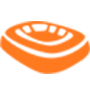
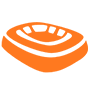
底部icon替换

Changed region(s): [[0.0, 0.2222, 1.0, 0.8222], [0.5333, 0.5111, 0.5778, 0.5333]]

diff --git a/pages/index/index.js b/pages/index/index.js
@@ -23,6 +23,7 @@ Page({
     userInfo: wx.getStorageSync('userInfo'),
     flag: true,
     imageUrl: img_url,
+    // 体育头条的轮播设置
     indicatorPorts: false,
     autoplayPorts: true,
     verticalPorts: true,
@@ -33,6 +34,7 @@ Page({
     nextMarginPorts: 0,
     indicatorColorPorts: 'rgba(255, 255, 255, .5)',
     swiper_height: '269rpx',
+    // 体育头条的数据
     sportArr: [
       {
         title: '体育新闻头条内容闻头条内容体育新闻头条内容闻头条内容体育新闻头条内容闻头条内容',
@@ -61,47 +63,36 @@ Page({
     switch (key) {
       // 授权
       case 'avatar':
-        wx.navigateTo({
-          url: '/pages/authorization/authorization'
-        })
+        url = '/pages/authorization/authorization'
         break;
       // 体质监测
       case 'examinate':
-        wx.navigateTo({
-          url: '/pages/examinate/examinate'
-        })
+        url = '/pages/examinate/examinate'
         break;
       // 场馆地图
       case 'map':
-        wx.navigateTo({
-          url: '/pages/map/map'
-        })
+        url = '/pages/map/map'
         break;
         // 体育大讲堂
       case 'lecture':
-        wx.navigateTo({
-          url: '/pages/publicLecture/publicLecture'
-        })
+        url = '/pages/publicLecture/publicLecture'
         break;
         门票卡劵
       case 'cart':
-        wx.navigateTo({
-          url: '/pages/venue/venue'
-        })
+        url = '/pages/venue/venue'
         break;
       case 'venueDetail':
-        wx.navigateTo({
-          url: '/pages/venueDetail/venue'
-        })
+        url = '/pages/venueDetail/venue'
         break;
       case 'scientificFitness':
-        wx.navigateTo({
-          url: '/pages/slimming/slimming?key='+2
-        })
+        url = '/pages/slimming/slimming?key='+2
         break;
       default:
         break;
     }
+    wx.navigateTo({
+      url
+    })
   },
   closeMask () {
     this.setData({

diff --git a/pages/examinate/examinate.js b/pages/examinate/examinate.js
@@ -14,7 +14,8 @@ Page({
       }
     ],
     currentKey: 1,
-    disabled: true
+    disabled: false,
+    if_checked: false
   },
 
   /**
@@ -23,6 +24,7 @@ Page({
   onLoad: function (options) {
 
   },
+  // tab  change事件
   handleChange (event) {
     console.log(event.currentTarget.dataset.key)
     let { key } = event.currentTarget.dataset;
@@ -43,8 +45,24 @@ Page({
   // 确认预约
   sureAppointment (event) {
     let { index } = event.currentTarget.dataset;
+    console.log(this.data.if_checked)
+    if (!this.data.if_checked) {
+      wx.showToast({
+        title: '请先勾选预约须知',
+        icon: 'none'
+      })
+      return
+    }
     wx.navigateTo({
       url: '/pages/appointInfo/appointInfo?key='+index
+    })
+  },
+  /**是否同意协议 */
+  boxcheck: function (e) {
+    var flag = e.detail.value[0];
+    console.log(flag)
+    this.setData({
+      if_checked: flag
     })
   },
   /**

diff --git a/pages/appointInfo/appointInfo.js b/pages/appointInfo/appointInfo.js
@@ -50,7 +50,11 @@ Page({
     }
   },
   // 提交按钮
-  submit () {},
+  submit () {
+    wx.switchTab({
+      url: '/pages/index/index'
+    }) 
+  },
   // 显示遮罩层
   showMask () {
     this.setData({ flag: false })
